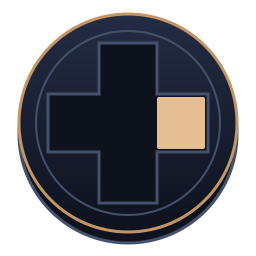
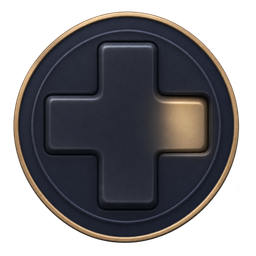
style(ui): 방향패드에 금색 입체형 선택 스타일 적용

diff --git a/Art/InputGlyphs/README.md b/Art/InputGlyphs/README.md
@@ -2,6 +2,8 @@
 
 키보드 146개, Xbox 28개, PlayStation 30개로 구성된 투명 배경 PNG 이미지 204개다. 이미지의 글자는 영문만 사용한다. 같은 이름의 SVG 원본과 전체 미리보기도 포함한다. 남청색 바탕, 금색 테두리, 밝은 글자는 기존 Eclipse 메뉴 색상을 따른다.
 
+방향패드의 상하좌우는 사용자가 선택한 금색 입체형 스타일을 사용한다. 선택 방향에 눌린 단차, 접촉 그림자, 따뜻한 금빛 반사를 표현한다. Xbox와 PlayStation에서 같은 방향 원본을 사용한다. 고해상도 원본과 제작 프롬프트는 `Sources/DPadGold/`에 있다. 방향패드의 SVG는 해당 PNG 원본을 상대 경로로 참조하므로 이동할 때 `Sources/`도 함께 유지한다.
+
 ## 파일 구성
 
 - `Keyboard/`에는 한국어 풀사이즈 배열의 106키와 확장 키 40개가 있다. 문자, 숫자, F1–F24, 좌우 보조키, 탐색키, 방향키, 숫자패드, 한/영, 한자, Fn, 미디어·시스템 키를 포함한다. 한/영 키는 `Lang`, 한자 키는 `Hanja`로 표기한다.
@@ -31,4 +33,4 @@ Node.js와 `sharp`가 설치된 환경에서 다음 명령을 실행한다.
 node Art/InputGlyphs/generate.cjs
 ```
 
-글자와 도형을 코드로 작성한 UI 이미지이며 PNG는 SVG 원본에서 렌더링했다. 글꼴은 Segoe UI와 Malgun Gothic을 사용한다. 재생성할 때 해당 글꼴이 설치되어 있어야 같은 모양을 얻는다.
+방향패드는 내장 image_gen으로 제작한 PNG 원본에서 256px로 축소한다. 나머지는 글자와 도형을 코드로 작성한 SVG에서 PNG로 렌더링한다. 글꼴은 Segoe UI와 Malgun Gothic을 사용한다. 재생성할 때 해당 글꼴이 설치되어 있어야 같은 모양을 얻는다.

diff --git a/Art/InputGlyphs/Sources/DPadGold/README.md b/Art/InputGlyphs/Sources/DPadGold/README.md
@@ -1,0 +1,15 @@
+# 금색 입체형 방향패드 원본
+
+사용자가 세 가지 샘플 중 첫 번째 금색 입체형을 선택했다. `Left.png`는 선택한 샘플이며 나머지 방향은 같은 이미지를 참조해 내장 `image_gen`으로 편집했다. 각 방향은 선택 팔 부분만 따뜻한 금색으로 강조한다. 모든 파일은 투명 배경 PNG다.
+
+## 제작 프롬프트
+
+왼쪽 원본에는 다음 디자인 지시를 사용했다.
+
+> Straight-on circular dark midnight navy D-pad HUD icon with restrained warm brass perimeter. Tactile connected cross-shaped rocker, softly chamfered edges, matte material. Only the left rectangular arm is physically pressed down, with a narrow occlusion gap, contact shadow and warm ivory/brass reflection. Other arms remain raised dark graphite/navy. No arrows, text or face symbols. Transparent background.
+
+상하우 변형은 왼쪽 원본을 편집 대상으로 다음 지시를 사용했다. `DIRECTION`은 각각 UP, BOTTOM, RIGHT다.
+
+> Produce the DIRECTION-pressed version. Preserve the exact straight-on circular navy/gunmetal D-pad, matte texture, brass outer ring, cross shape, canvas dimensions, position and top-left illumination. Move only the depressed warm-gold active face from the LEFT arm to the DIRECTION arm. Return LEFT to dark raised navy. Only DIRECTION is gold. Maintain geometry and material without rotating the image or lighting. Clean alpha transparency, no backdrop, text or arrows.
+
+`generate.cjs`는 이 원본을 읽어 Xbox와 PlayStation의 `Gamepad_DPad_*.png`를 생성하고 대응표 및 미리보기를 갱신한다.
